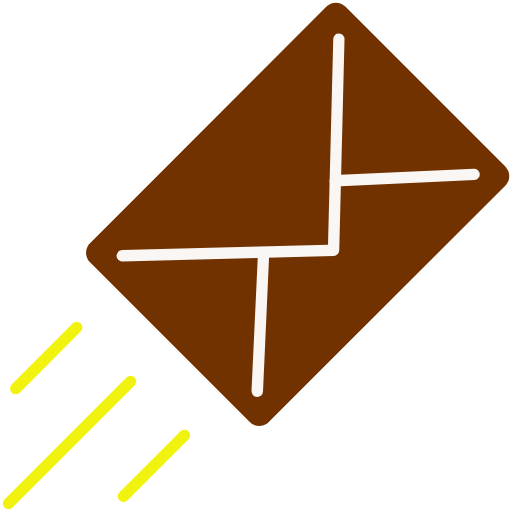
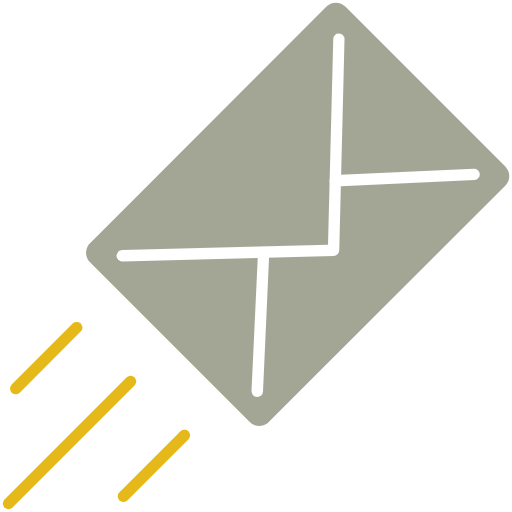
added contact submit button toggle color dark/light mode

diff --git a/assets/css/style.css b/assets/css/style.css
@@ -359,33 +359,7 @@ footer {
     color: #000;
     border-radius: 10px;
 }
-/***************************modal**********************************/
-.modal {
-    position: fixed;
-    z-index: 1000;
-    align-items: center;
-    justify-content: center;
-    background: var(--modalBg) no-repeat bottom right; 
-    -webkit-background-size: cover;
-    -moz-background-size: cover;
-    -o-background-size: cover;
-    background-size: cover;
-}
-.jumbotron {
-    position: absolute;
-    top: 50%;
-    left: 50%;
-    transform: translate(-50%, -50%);
-    width: 80%;
-    padding: 20px;
-    max-height: 90vh;
-    overflow-y: auto;
-    text-align: center;
-    border: 0.5px solid #eca54c;
-    border-radius: 20px;
-    background-color: rgba(0, 0, 0, 0.70);
-    color: var(--modalText);
-}
+
 /*.modal-btn-container {
     padding-top: 20px;
 }*/
@@ -399,67 +373,6 @@ footer {
     color: #fafafa;
     text-decoration: none;
 }*/
-/******************************contact form modal******************************/
-.contact-image-container {
-    height: 100%;
-    width: 100%;
-}
-.contact-image {
-    width: 80%;
-    position: absolute;
-    top: 50%;
-    left: 50%;
-    transform: translate(-50%, -50%);
-}
-.contact-form-container {
-    color: var(--modalText);
-}
-.contact-form-title {
-    margin-bottom: 20px;
-}
-.contact-form-message {
-    margin-bottom: 30px;
-}
-.contact-email-row {
-    margin-top: 30px;
-}
-/*.contact-form-label {
-    text-align: center;
-    padding-top: 10px;
-}*/
-/*.contact-form-label label {
-    margin-bottom: 0;
-}*/
-.contact-form-input {
-    text-align: center;
-    padding-top: 30px;
-}
-.contact-form-input input {
-    border-radius: 10px;
-}
-.contact-button {
-    padding-top: 20px;
-}
-.enquiry-container {
-    margin-top: 40px;
-}
-#contact-enquiry {
-    height: 150px;
-    width: 80%;
-    max-width: 600px;
-    border-radius: 10px;
-}
-.contact-button .btn-warning {
-    background-color: #713200;
-    color: #fafafa;
-    border-radius: 10px;
-}
-.home-link {
-    padding-top: 30px;
-}
-.home-link a {
-    color: #fafafa;
-}
 /******************links to share result********************/
 /**************code taken fron youtube tutorial https://www.youtube.com/watch?v=YcEshVZNA5E*/
 .share-result-wrapper {
@@ -642,6 +555,8 @@ footer {
     --registrationText: var(--whiteColor);
     --hintMobileBgColor: var(--rustyLightColor);
     --hintMobileTextColor: var(--blackColor);
+    --contactSubmitBtnBg: var(--rustyLightColor);
+    --contactSubmitBtnText: var(--blackColor);
 }
 .dark-theme {
     --mainHeaderHomepage: var(--headerBgDark);
@@ -669,12 +584,89 @@ footer {
     --registrationText: var(--blackColor);
     --hintMobileBgColor: var(--rustyColor);
     --hintMobileTextColor: var(--whiteColor);
+    --contactSubmitBtnBg: var(--rustyColor);
+    --contactSubmitBtnText: var(--whiteColor);
 }
 /****************transition dark to white mode*********/
 * {
   transition: background-color 0.6s ease, color 1s ease;
 }
 /******************modals section************************/
+/***************************modal**********************************/
+.modal {
+    position: fixed;
+    z-index: 1000;
+    align-items: center;
+    justify-content: center;
+    background: var(--modalBg) no-repeat bottom right; 
+    -webkit-background-size: cover;
+    -moz-background-size: cover;
+    -o-background-size: cover;
+    background-size: cover;
+}
+.jumbotron {
+    position: absolute;
+    top: 50%;
+    left: 50%;
+    transform: translate(-50%, -50%);
+    width: 80%;
+    padding: 20px;
+    max-height: 90vh;
+    overflow-y: auto;
+    text-align: center;
+    border: 0.5px solid #eca54c;
+    border-radius: 20px;
+    background-color: rgba(0, 0, 0, 0.70);
+    color: var(--modalText);
+}
+/******************************contact form modal******************************/
+.contact-image-container {
+    height: 100%;
+    width: 100%;
+}
+.contact-image {
+    width: 80%;
+    position: absolute;
+    top: 50%;
+    left: 50%;
+    transform: translate(-50%, -50%);
+}
+.contact-form-container {
+    color: var(--modalText);
+}
+.contact-form-title {
+    margin-bottom: 20px;
+}
+.contact-form-message {
+    margin-bottom: 30px;
+}
+.contact-email-row {
+    margin-top: 30px;
+}
+.contact-form-input {
+    text-align: center;
+    padding-top: 30px;
+}
+.contact-form-input input {
+    border-radius: 10px;
+}
+.contact-button {
+    padding-top: 20px;
+}
+.enquiry-container {
+    margin-top: 40px;
+}
+#contact-enquiry {
+    height: 150px;
+    width: 80%;
+    max-width: 600px;
+    border-radius: 10px;
+}
+.contact-button .btn-warning {
+    background-color: var(--contactSubmitBtnBg);
+    color: var(--contactSubmitBtnText);
+    border-radius: 10px;
+}
 /*****************category choice modal*****************************/
 .category-choice div button {
     width: 100px;

diff --git a/index.html b/index.html
@@ -103,7 +103,6 @@
                         <div class="contact-image-container">
                             <img class="contact-image" src="./assets/images/envelope-1204.png" alt="envelope">
                         </div>
-
                     </div>
                     <div class="col-12 col-md-6">
                         <h4 class="contact-form-title">Get in touch.</h4>

diff --git a/README.md b/README.md
@@ -101,4 +101,5 @@ Image by <a href="https://pixabay.com/users/geralt-9301/?utm_source=link-attribu
 Image by <a href="https://pixabay.com/users/artturi_mantysaari-1625672/?utm_source=link-attribution&amp;utm_medium=referral&amp;utm_campaign=image&amp;utm_content=1562743">Artturi Mäntysaari</a> from <a href="https://pixabay.com/?utm_source=link-attribution&amp;utm_medium=referral&amp;utm_campaign=image&amp;utm_content=1562743">Pixabay</a>  
 Image by <a href="https://pixabay.com/users/geralt-9301/?utm_source=link-attribution&amp;utm_medium=referral&amp;utm_campaign=image&amp;utm_content=4243604">Gerd Altmann</a> from <a href="https://pixabay.com/?utm_source=link-attribution&amp;utm_medium=referral&amp;utm_campaign=image&amp;utm_content=4243604">Pixabay</a>  
 Image by <a href="https://pixabay.com/users/manuchi-1728328/?utm_source=link-attribution&amp;utm_medium=referral&amp;utm_campaign=image&amp;utm_content=2462431">Денис Марчук</a> from <a href="https://pixabay.com/?utm_source=link-attribution&amp;utm_medium=referral&amp;utm_campaign=image&amp;utm_content=2462431">Pixabay</a>   
+Icon by <a href='https://iconpacks.net/?utm_source=link-attribution&utm_content=1204'>Iconpacks</a>  
 Icon by <a href='https://iconpacks.net/?utm_source=link-attribution&utm_content=1204'>Iconpacks</a>
